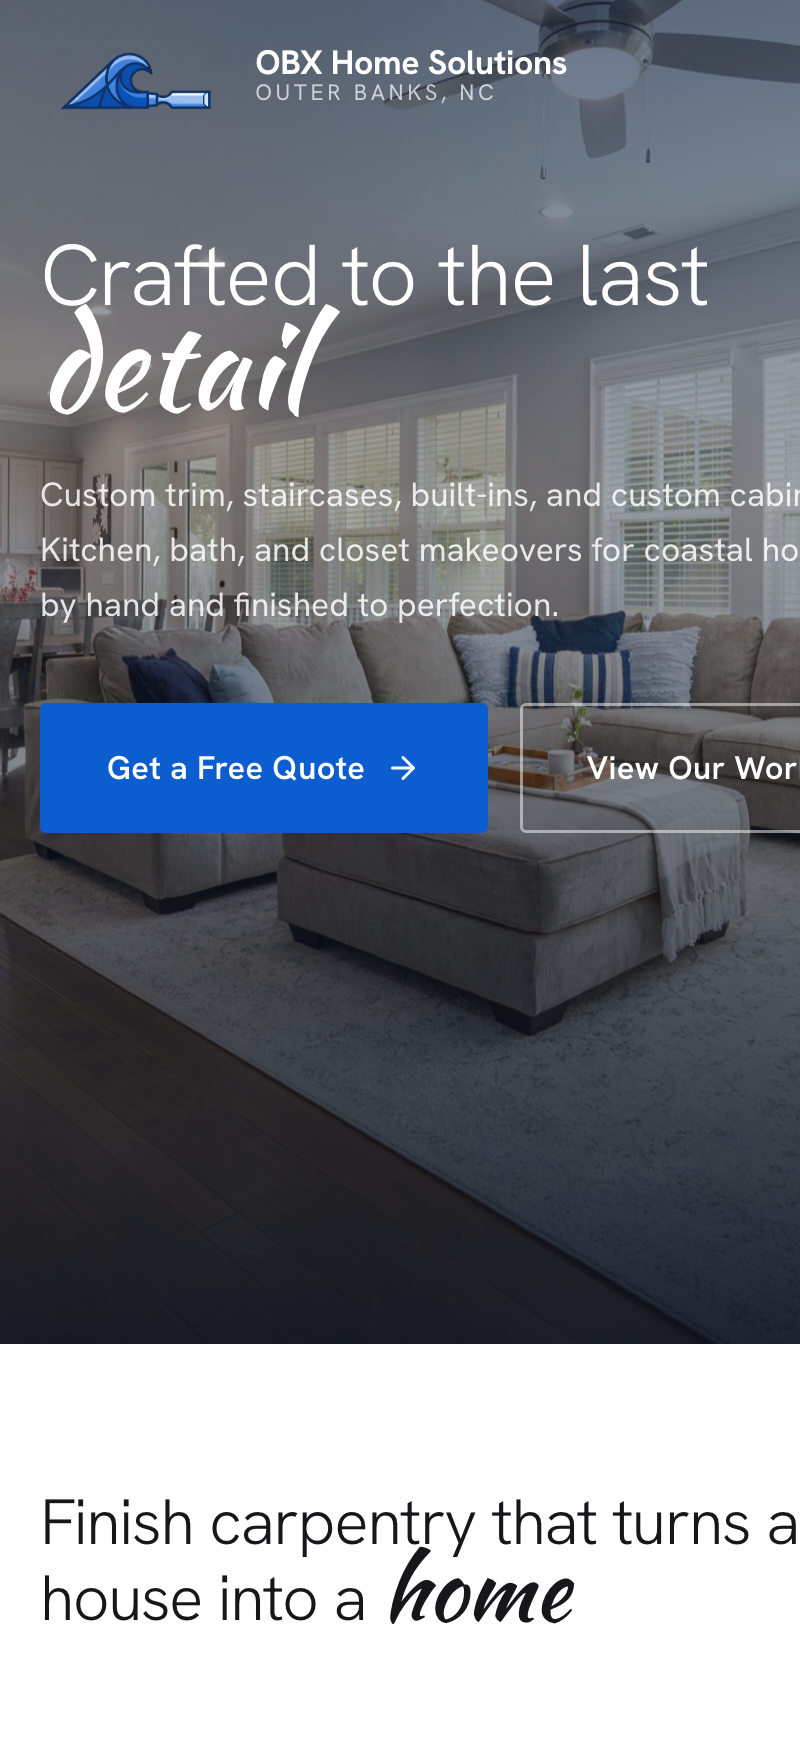
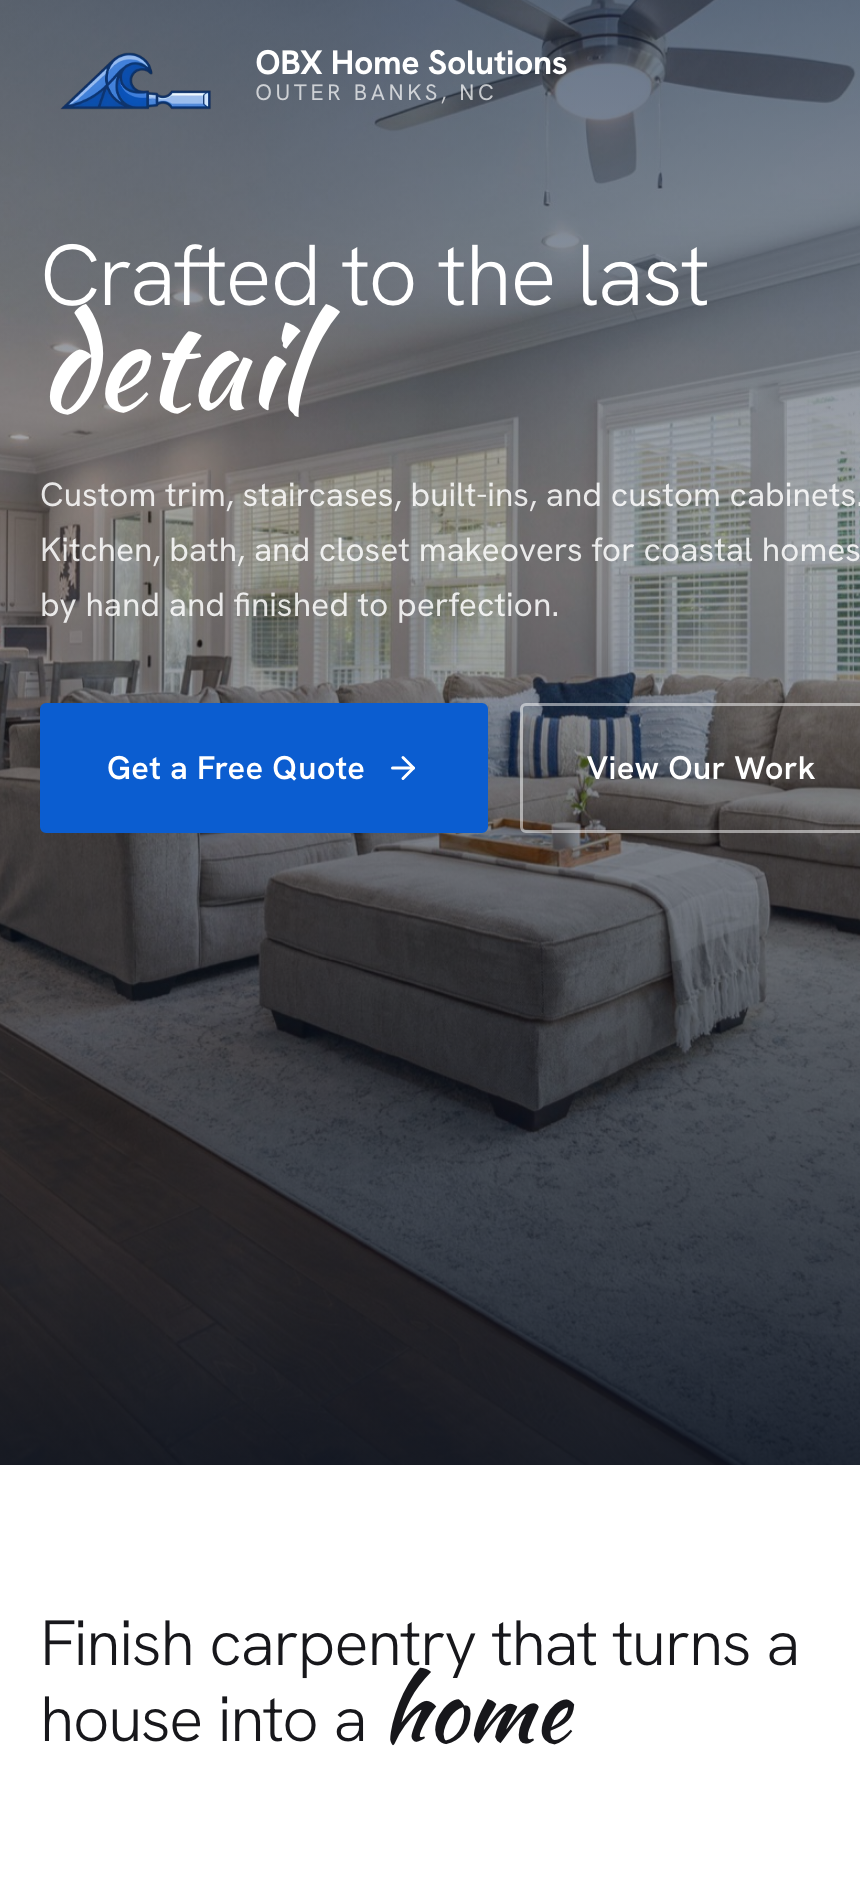
Hero copy + normal video; label = name+desc only; phones fit (430px mobile shots)
- Hero headline: 'A design studio for businesses that have outgrown their website.'
- Hero video back to normal (no filter); source clip is inherently dark
- Work card labels: removed letter badge, show company name + description only
- Re-captured Quench/OBXHS mobile at 430px so content fits the phone (no side crop)

diff --git a/index.html b/index.html
@@ -29,7 +29,7 @@
 <link rel="preconnect" href="https://fonts.googleapis.com">
 <link rel="preconnect" href="https://fonts.gstatic.com" crossorigin>
 <link href="https://fonts.googleapis.com/css2?family=DM+Sans:ital,wght@0,400;0,500;0,600;0,700;1,400;1,500&family=Source+Serif+4:ital,wght@0,400;0,500;0,600;1,400;1,500&display=swap" rel="stylesheet">
-<link rel="stylesheet" href="assets/style.css?v=17">
+<link rel="stylesheet" href="assets/style.css?v=18">
 <script type="application/ld+json">
 {"@context":"https://schema.org","@graph":[{"@type":"ProfessionalService","@id":"https://nearblack.com/#studio","name":"NearBlack","alternateName":"NearBlack Studio","description":"Design studio specializing in fast, affordable website refreshes for business owners.","url":"https://nearblack.com","logo":"https://nearblack.com/assets/icon-512.png","image":"https://nearblack.com/assets/og-image.png","email":"hello@nearblack.com","priceRange":"$499 - $5,999","areaServed":{"@type":"Country","name":"United States"},"foundingDate":"2026","serviceType":"Website design, website refresh, website redesign","slogan":"Refreshes for the websites that already deserve better."},{"@type":"WebSite","@id":"https://nearblack.com/#website","url":"https://nearblack.com","name":"NearBlack","publisher":{"@id":"https://nearblack.com/#studio"},"inLanguage":"en-US"}]}
 </script>
@@ -64,7 +64,7 @@
   </video>
 
   <div class="hero-inner">
-    <h1><span class="ln scramble" data-text="A design studio for"></span><span class="ln scramble" data-text="the websites you already have."></span></h1>
+    <h1><span class="ln scramble" data-text="A design studio for businesses"></span><span class="ln scramble" data-text="that have outgrown their website."></span></h1>
     <p class="hero-sub">We rebuild the site you've already got into something worth looking at. Live in <strong>72 hours</strong>, from <strong>$499</strong>. 10% deposit, pay the rest on launch.</p>
     <div class="hero-actions">
       <a href="https://calendly.com/hello-nearblack/15-minute-meeting" target="_blank" rel="noopener" class="btn-lg">Book a call →</a>
@@ -100,7 +100,7 @@
             <div class="laptop-base"></div>
           </div>
         </div>
-        <div class="wcard-label"><div class="wcard-ico">O</div><div><div class="wcard-name">Omnes</div><div class="wcard-desc">The refresh that started the studio</div></div></div>
+        <div class="wcard-label"><div><div class="wcard-name">Omnes</div><div class="wcard-desc">The refresh that started the studio</div></div></div>
       </a>
       <a href="https://allseasonsnh.com" target="_blank" rel="noopener" class="wcard bg-allseasons reveal d1">
         <div class="device">
@@ -109,25 +109,25 @@
             <div class="laptop-base"></div>
           </div>
         </div>
-        <div class="wcard-label"><div class="wcard-ico">A</div><div><div class="wcard-name">All Seasons</div><div class="wcard-desc">Outdated site, rebuilt in a day</div></div></div>
+        <div class="wcard-label"><div><div class="wcard-name">All Seasons</div><div class="wcard-desc">Outdated site, rebuilt in a day</div></div></div>
       </a>
       <a href="/quench" class="wcard bg-quench reveal">
         <div class="device device-phone">
           <div class="phone">
             <div class="phone-island"></div>
-            <div class="phone-screen"><img src="assets/quench-mobile.png" alt="Quench Water Co — refreshed mobile site by NearBlack" loading="lazy"></div>
+            <div class="phone-screen"><img src="assets/quench-mobile.png?v=2" alt="Quench Water Co — refreshed mobile site by NearBlack" loading="lazy"></div>
           </div>
         </div>
-        <div class="wcard-label"><div class="wcard-ico">Q</div><div><div class="wcard-name">Quench Water Co</div><div class="wcard-desc">Tired Wix template, made thirsty</div></div></div>
+        <div class="wcard-label"><div><div class="wcard-name">Quench Water Co</div><div class="wcard-desc">Tired Wix template, made thirsty</div></div></div>
       </a>
       <a href="/obxhs" class="wcard bg-obxhs reveal d1">
         <div class="device device-phone">
           <div class="phone">
             <div class="phone-island"></div>
-            <div class="phone-screen"><img src="assets/obxhs-mobile.png" alt="OBX Home Solutions — refreshed mobile site by NearBlack" loading="lazy"></div>
+            <div class="phone-screen"><img src="assets/obxhs-mobile.png?v=2" alt="OBX Home Solutions — refreshed mobile site by NearBlack" loading="lazy"></div>
           </div>
         </div>
-        <div class="wcard-label"><div class="wcard-ico">OB</div><div><div class="wcard-name">OBX Home Solutions</div><div class="wcard-desc">From a Facebook page to a real site</div></div></div>
+        <div class="wcard-label"><div><div class="wcard-name">OBX Home Solutions</div><div class="wcard-desc">From a Facebook page to a real site</div></div></div>
       </a>
     </div>
   </div>

diff --git a/assets/style.css b/assets/style.css
@@ -996,8 +996,8 @@ section,.sec-light,.statement-c,.hero-cine,.hero-sm,.final,.purpose,.marquee{bor
 
 /* HERO: cinematic video, softened to ambient depth (masks the clip's diagonal banding) */
 .hero-cine{background:#000}
-.hero-cine .hero-vid{filter:blur(8px) brightness(.95) contrast(1.02) saturate(1.1)}
-.hero-cine::after{background:linear-gradient(180deg,rgba(0,0,0,.42) 0%,rgba(0,0,0,.26) 30%,rgba(0,0,0,.38) 60%,rgba(0,0,0,.92) 100%)}
+.hero-cine .hero-vid{filter:none}
+.hero-cine::after{background:linear-gradient(180deg,rgba(0,0,0,0) 0%,rgba(0,0,0,0) 60%,rgba(0,0,0,.34) 82%,rgba(0,0,0,.7) 100%)}
 
 /* WORK card backdrops — vibrant, with radial depth */
 .wcard.bg-omnes{background:radial-gradient(125% 120% at 50% -12%,#FFEFA6 0%,#FFD60A 48%,#E7BE00 100%)}
@@ -1017,9 +1017,9 @@ section,.sec-light,.statement-c,.hero-cine,.hero-sm,.final,.purpose,.marquee{bor
 
 /* phone (mobile version) — two of the cards */
 .device-phone{padding:0!important;display:block}
-.wcard .phone{position:absolute;left:50%;top:11%;transform:translateX(-50%);height:104%;aspect-ratio:9/19.5;background:#0b0b0c;border-radius:42px;padding:6px;box-shadow:0 30px 55px rgba(0,0,0,.42);transition:transform .7s cubic-bezier(.16,1,.3,1)}
+.wcard .phone{position:absolute;left:50%;top:10%;transform:translateX(-50%);height:104%;width:auto;background:#0b0b0c;border-radius:42px;padding:6px;box-shadow:0 30px 55px rgba(0,0,0,.42);transition:transform .7s cubic-bezier(.16,1,.3,1)}
 .wcard:hover .phone{transform:translateX(-50%) translateY(-7px)}
-.wcard .phone-screen{position:relative;width:100%;height:100%;border-radius:36px;overflow:hidden;background:#fff}
+.wcard .phone-screen{position:relative;height:100%;aspect-ratio:9/19.5;border-radius:36px;overflow:hidden;background:#fff}
 .wcard .phone-screen img{width:100%;height:100%;object-fit:cover;object-position:top center;display:block}
 .wcard:hover .phone-screen img{transform:none}
 .phone-island{position:absolute;top:12px;left:50%;transform:translateX(-50%);width:30%;height:11px;background:#0b0b0c;border-radius:999px;z-index:2}
